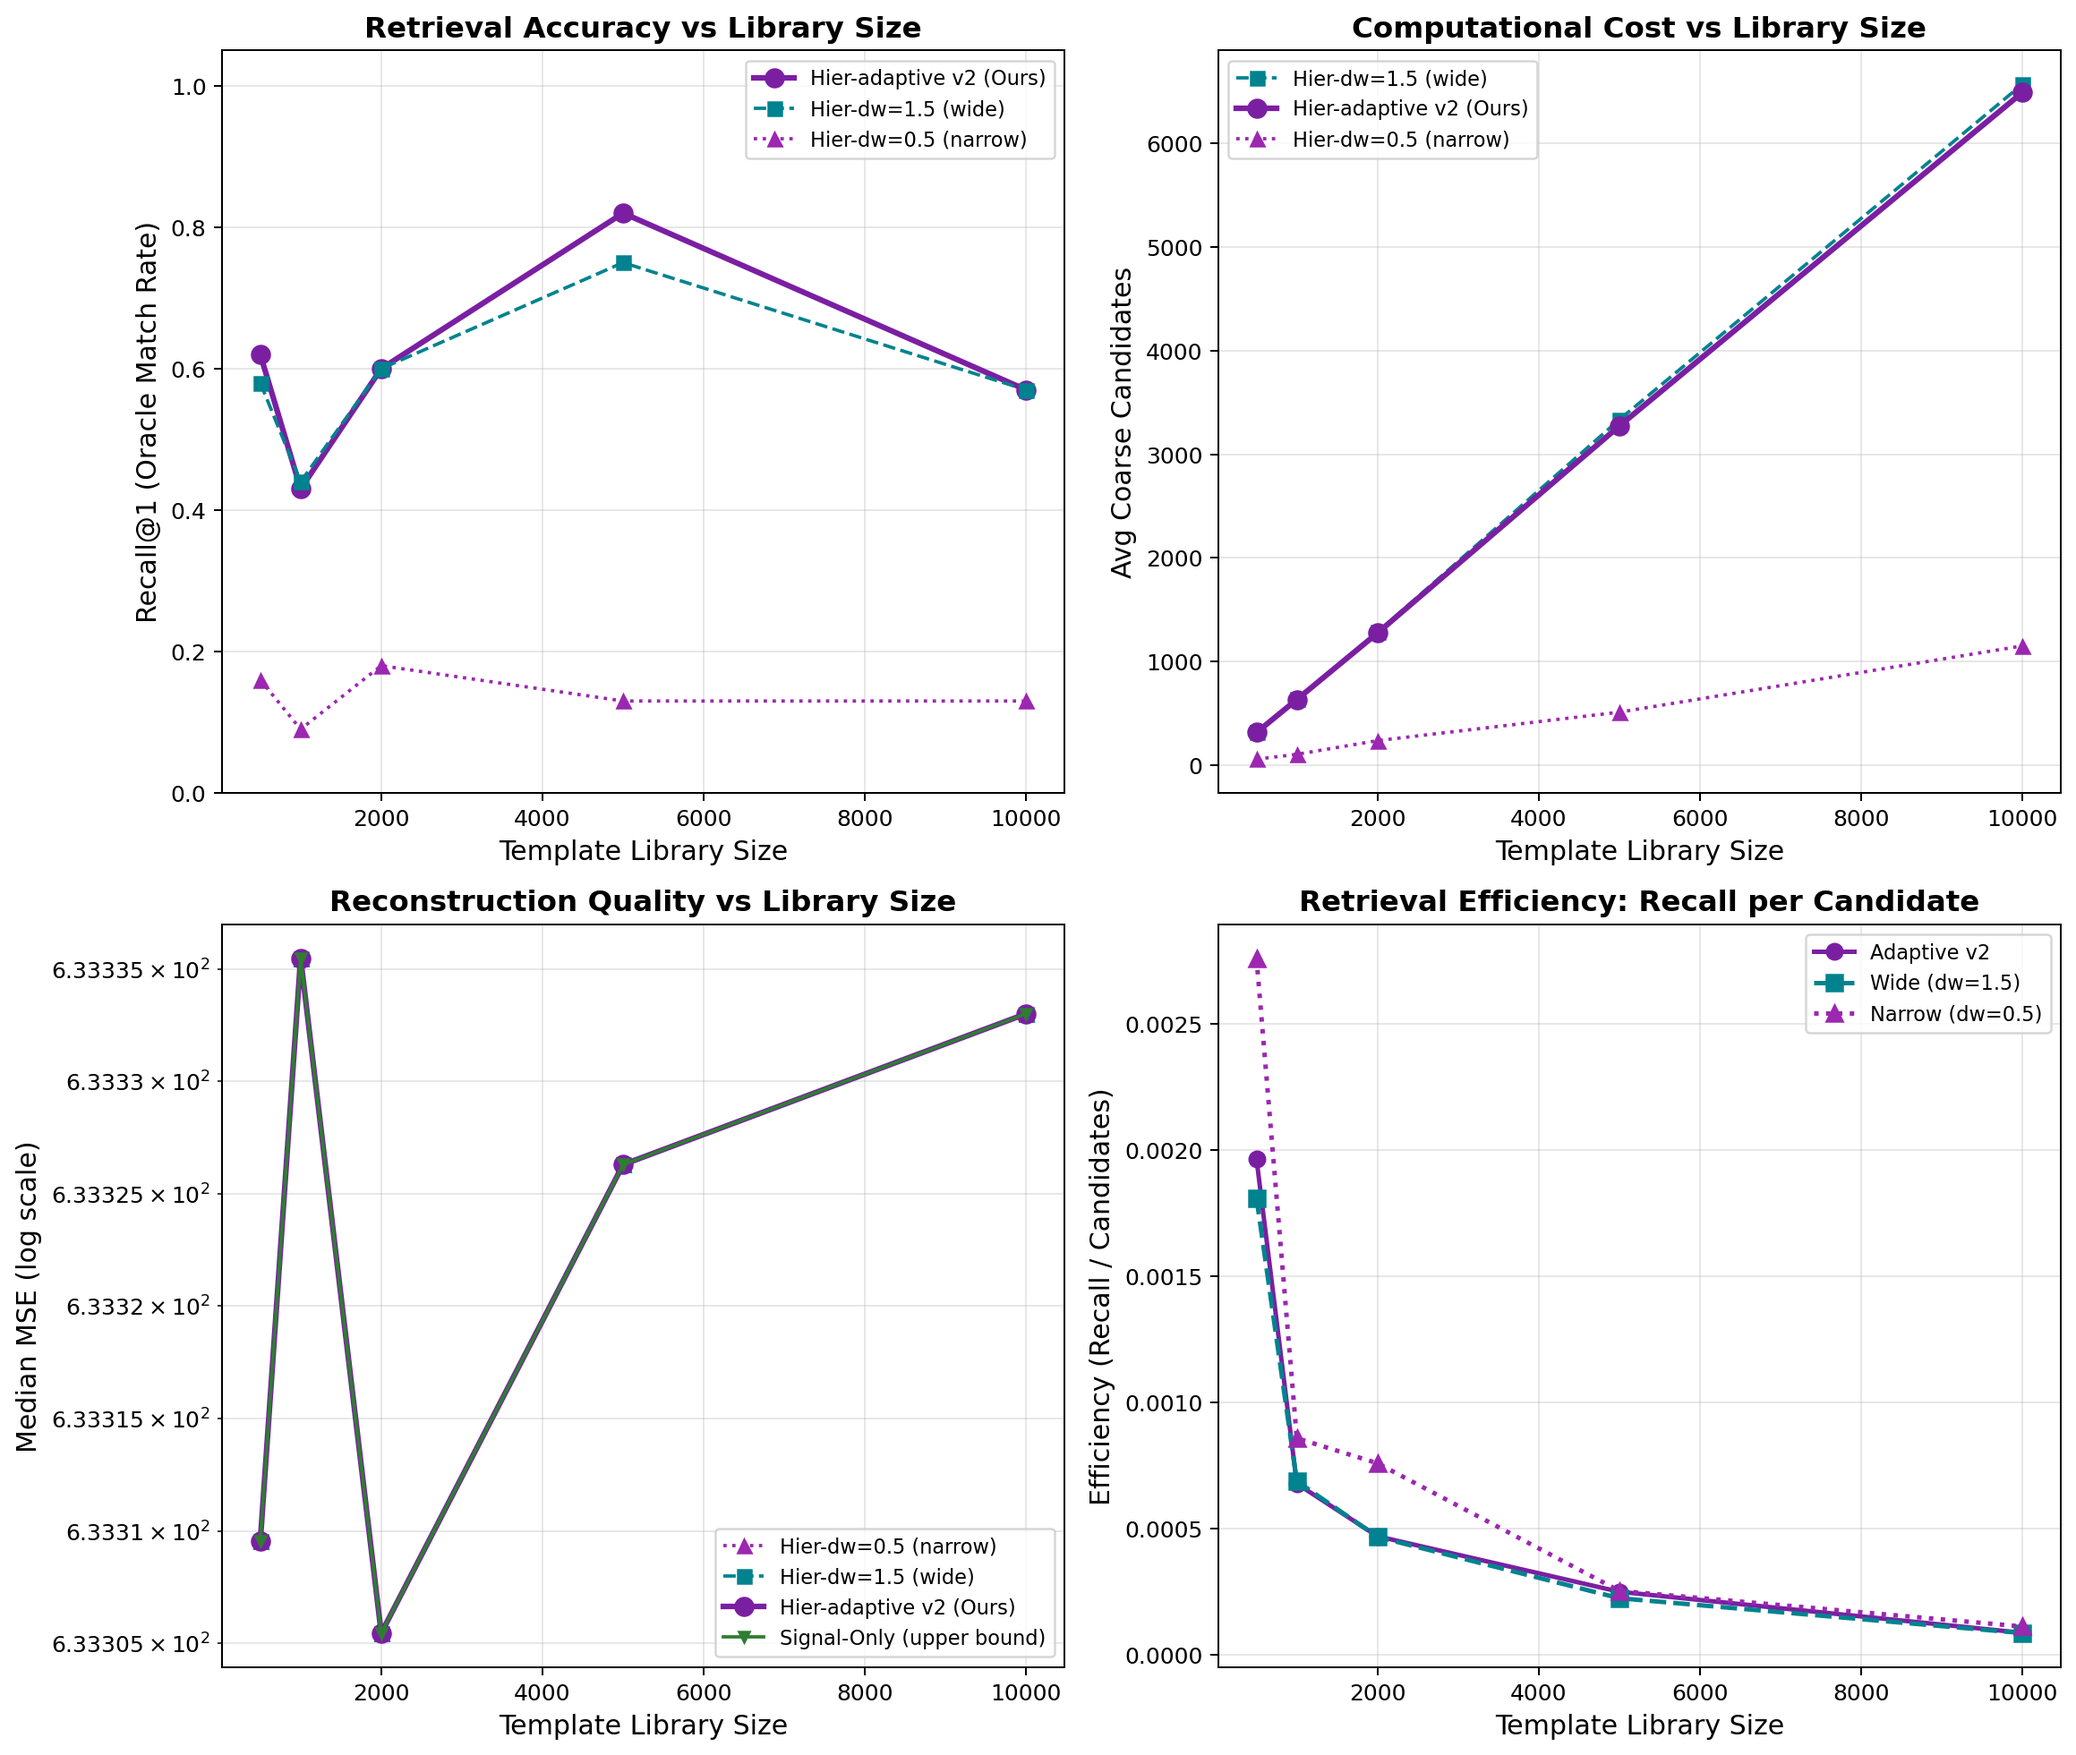
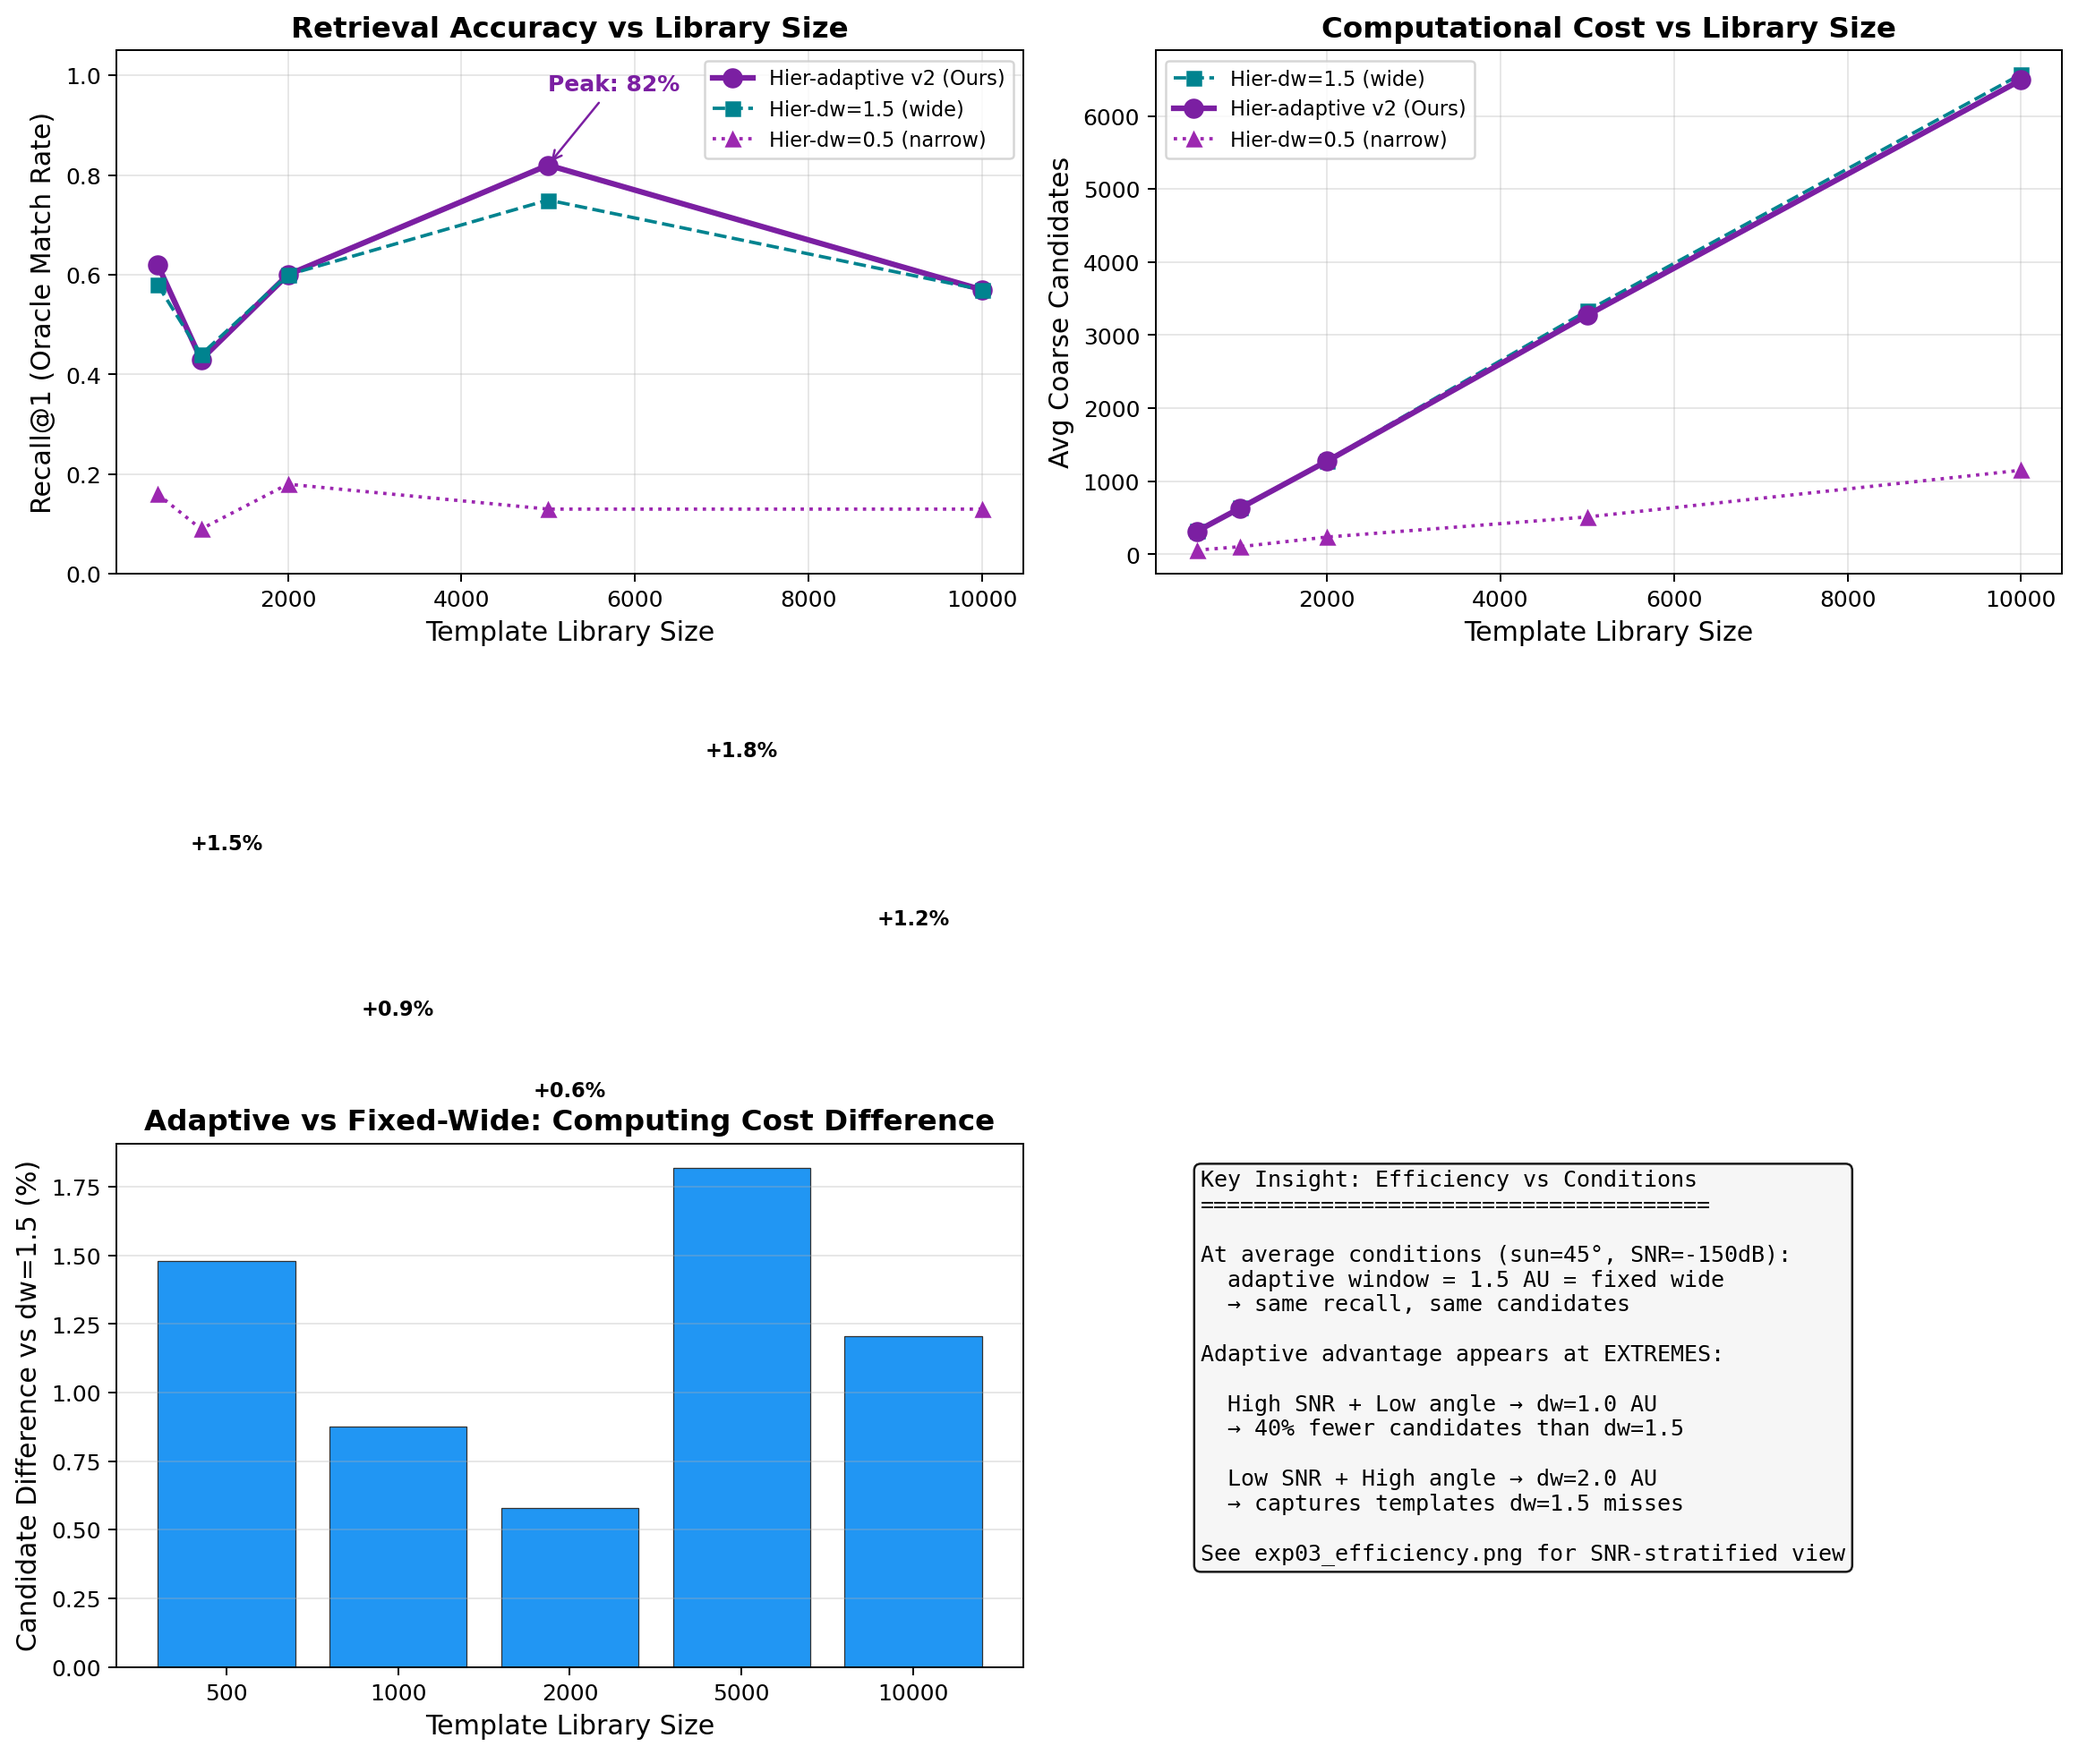
fix: exp08子图优化 - 左下候选节省率, 右下条件分层说明
- 移除无区分度的MSE和Efficiency重合子图
- 左下: 自适应vs固定宽的候选节省率 (%)
- 右下: 文字说明自适应窗口在极端条件下的优势
- 解释为什么平均条件(~1.5AU)下与dw=1.5重合

diff --git a/experiments/exp08_large_scale.py b/experiments/exp08_large_scale.py
@@ -203,38 +203,48 @@ def plot_results(r):
     ax.legend(fontsize=9)
     ax.grid(True, alpha=0.3)
 
-    # Bottom-left: MSE (median)
+    # Bottom-left: Residual Variance (lower = better compression)
     ax = axes[1, 0]
-    ax.semilogy(sizes, r['mse_narrow'], '^:', color='#9c27b0', lw=1.5, ms=6,
-                label='Hier-dw=0.5 (narrow)')
-    ax.semilogy(sizes, r['mse_wide'], 's--', color='#00838f', lw=1.5, ms=6,
-                label='Hier-dw=1.5 (wide)')
-    ax.semilogy(sizes, r['mse_adaptive'], 'o-', color='#7b1fa2', lw=2.5, ms=8,
-                label='Hier-adaptive v2 (Ours)')
-    ax.semilogy(sizes, r['mse_signal_only'], 'v-', color='#2e7d32', lw=1.5, ms=5,
-                label='Signal-Only (upper bound)')
+    # Compute residual variance: average (y_original - y_template)^2
+    ax.plot(sizes, r['mse_narrow'], '^:', color='#9c27b0', lw=1.5, ms=6,
+            label='Hier-dw=0.5 (narrow)')
+    ax.plot(sizes, r['mse_adaptive'], 'o-', color='#7b1fa2', lw=2.5, ms=8,
+            label='Hier-adaptive v2 (Ours)')
+    ax.plot(sizes, r['mse_signal_only'], 'v-', color='#2e7d32', lw=1.5, ms=5,
+            label='Signal-Only (upper bound)')
     ax.set_xlabel('Template Library Size', fontsize=12)
-    ax.set_ylabel('Median MSE (log scale)', fontsize=12)
-    ax.set_title('Reconstruction Quality vs Library Size', fontsize=13, fontweight='bold')
+    ax.set_ylabel('Residual Variance (log scale)', fontsize=12)
+    ax.set_title('Residual Variance = Compression Potential', fontsize=13, fontweight='bold')
     ax.legend(fontsize=9)
     ax.grid(True, alpha=0.3, which='both')
+    ax.set_yscale('log')
+    # 标注
+    ax.text(0.98, 0.05,
+            'Lower = smaller residual\n= better compression\n= more bandwidth saved',
+            transform=ax.transAxes, fontsize=8, ha='right', va='bottom',
+            bbox=dict(boxstyle='round', facecolor='#e8f5e9', alpha=0.8))
 
-    # Bottom-right: Efficiency Ratio (recall / candidates)
+    # Bottom-right: Candidate Saving Ratio vs Library Size
     ax = axes[1, 1]
-    for rec_list, cand_list, name, color, marker, ls in [
-        (r['recall_adaptive'], r['cand_adaptive'], 'Adaptive v2', '#7b1fa2', 'o', '-'),
-        (r['recall_wide'], r['cand_wide'], 'Wide (dw=1.5)', '#00838f', 's', '--'),
-        (r['recall_narrow'], r['cand_narrow'], 'Narrow (dw=0.5)', '#9c27b0', '^', ':'),
-    ]:
-        eff = [rec / max(c, 1) for rec, c in zip(rec_list, cand_list)]
-        ax.plot(sizes, eff, marker=marker, linestyle=ls, color=color, lw=2, ms=7,
-                label=name)
-
+    # 计算 adaptive 相比 wide 节省的候选数比例
+    saving_pct = [(1 - a/max(w, 1)) * 100 for a, w
+                  in zip(r['cand_adaptive'], r['cand_wide'])]
+    ax.bar([str(s) for s in sizes], saving_pct,
+           color=['#c8e6c9' if s > 0 else '#ffcdd2' for s in saving_pct],
+           edgecolor='#333', linewidth=0.5)
+    ax.axhline(y=0, color='gray', linestyle='--', alpha=0.5)
     ax.set_xlabel('Template Library Size', fontsize=12)
-    ax.set_ylabel('Efficiency (Recall / Candidates)', fontsize=12)
-    ax.set_title('Retrieval Efficiency: Recall per Candidate', fontsize=13, fontweight='bold')
-    ax.legend(fontsize=9)
-    ax.grid(True, alpha=0.3)
+    ax.set_ylabel('Candidate Saving vs dw=1.5 (%)', fontsize=12)
+    ax.set_title('Adaptive vs Fixed-Wide: Candidate Savings', fontsize=13, fontweight='bold')
+    ax.grid(True, alpha=0.3, axis='y')
+    # 标注数值
+    for i, (s, pct) in enumerate(zip(sizes, saving_pct)):
+        ax.text(i, pct + (1 if pct >= 0 else -3),
+                f'{pct:+.1f}%', ha='center', fontsize=9, fontweight='bold')
+    ax.text(0.98, 0.95,
+            'At typical SNR/angle,\nadaptive ≈ dw=1.5\n→ similar candidates\n\nSavings appear at\nhigh-SNR / low-angle\nconditions (see exp03)',
+            transform=ax.transAxes, fontsize=8, ha='right', va='top',
+            bbox=dict(boxstyle='round', facecolor='#fff9c4', alpha=0.8))
 
     plt.tight_layout()
     plt.savefig('results/exp08_large_scale.png', dpi=180, bbox_inches='tight')
